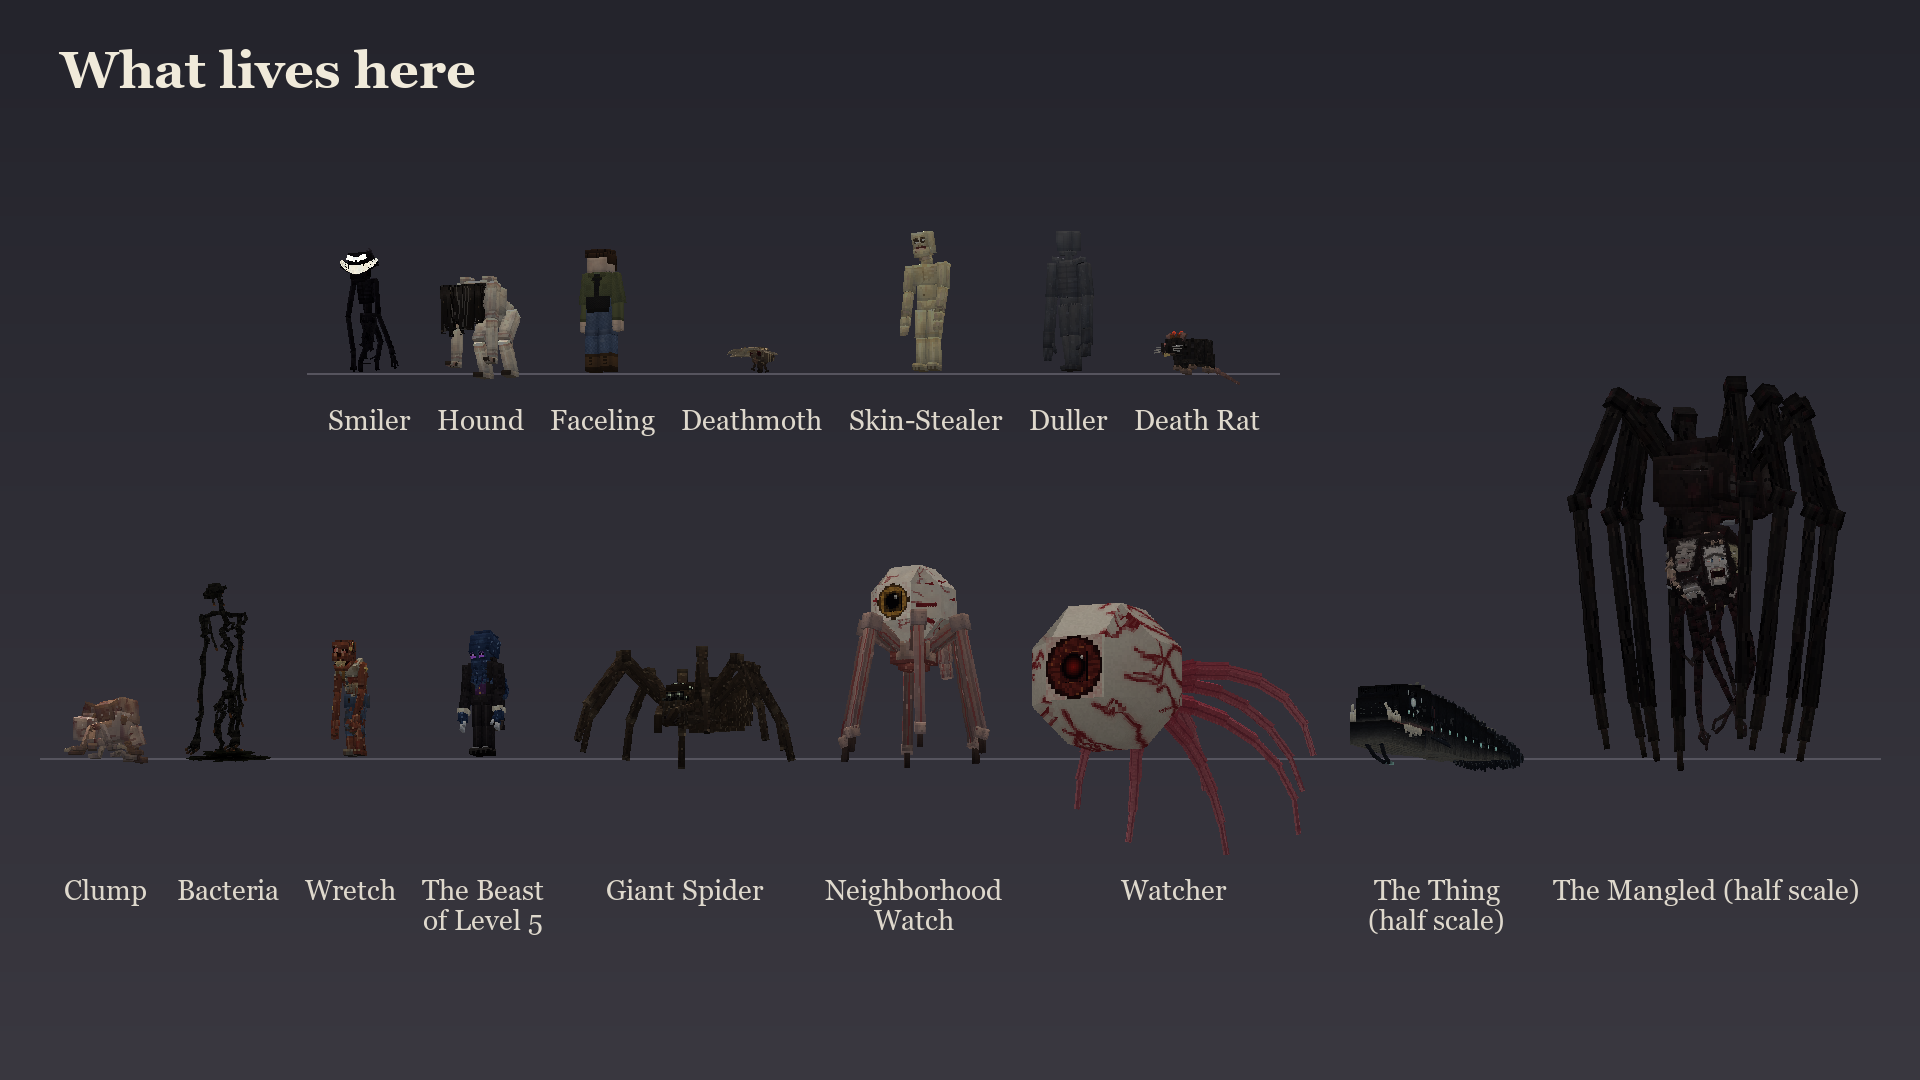
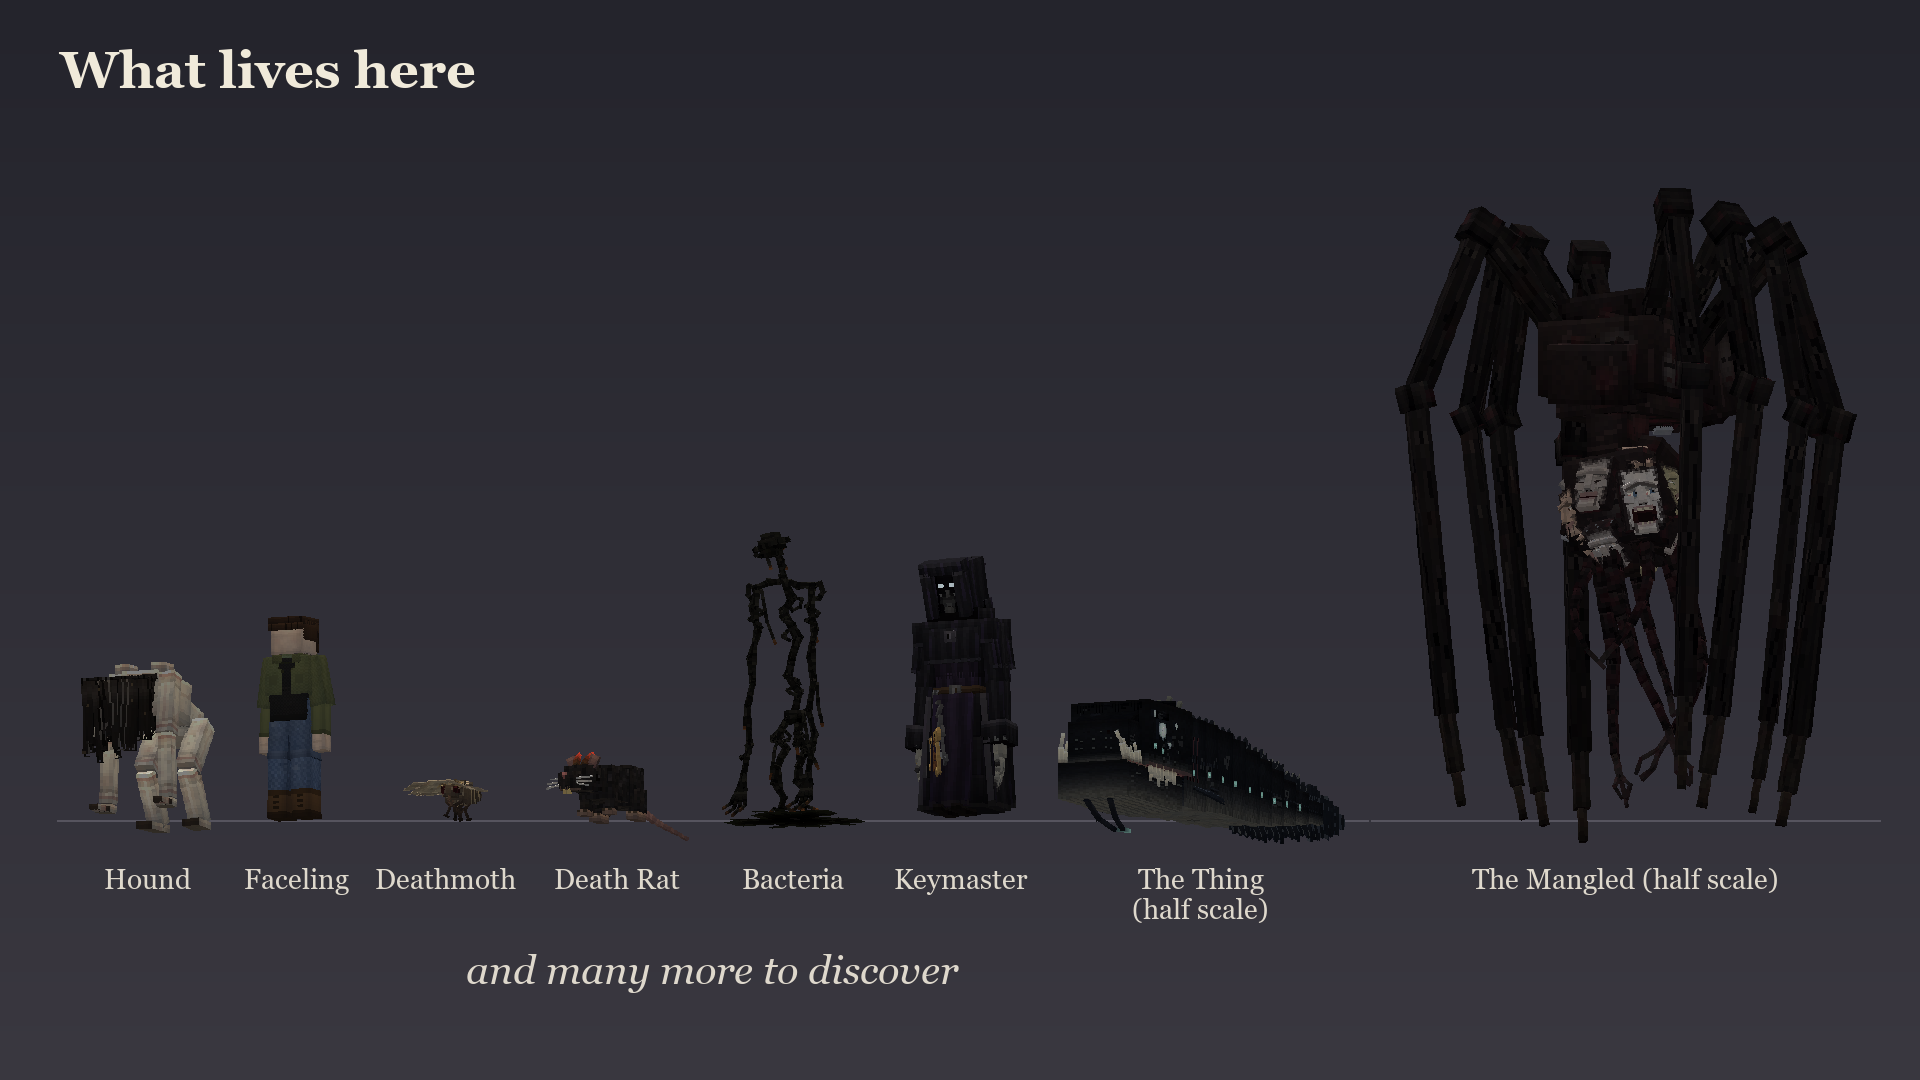
Mod page: the What Lives Here line-up shows eight (Hound, Faceling, Deathmoth, Death Rat, Bacteria, Keymaster, the Thing, the Mangled) "and many more to discover" (lineup.py few=1)

diff --git a/tools/lineup.py b/tools/lineup.py
@@ -1,10 +1,10 @@
 """Renders the creature lineup for the mod page ("What lives here"): every entity at its true size relative to the
 others (the two giants at half scale), facing the viewer, standing on one ground line, named underneath.
 
-    python tools/lineup.py out.png [yaw=65] [pitch=8] [rings=1]
+    python tools/lineup.py out.png [yaw=65] [pitch=8] [rings=1|few=1]
 
-`rings=1` draws only what lives in the rings (Levels 0 to 11), in two rows: the mod page's lineup, which keeps the far
-levels' creatures out of sight. A 1920x1080 picture in three rows, with the Mangled standing at the right beside them, scaled to fill it. `yaw` turns the models from straight on (90) so their depth shows. The renderer is the one in
+`rings=1` draws only what lives in the rings (Levels 0 to 11), in two rows. `few=1` draws eight of them in one row
+with "and many more to discover" under it: the mod page's lineup, which keeps most of what lives here out of sight. A 1920x1080 picture in three rows, with the Mangled standing at the right beside them, scaled to fill it. `yaw` turns the models from straight on (90) so their depth shows. The renderer is the one in
 entrender.py (the game's element transforms), drawing onto a transparent canvas.
 """
 import json
@@ -125,16 +125,24 @@ RINGS = ["Smiler", "Hound", "Faceling", "Deathmoth", "Skin-Stealer", "Duller", "
          "The Beast\nof Level 5", "Giant Spider", "Neighborhood\nWatch", "Watcher", "The Thing\n(half scale)",
          "The Mangled (half scale)"]
 RINGS_ROWS = [7, 8]
+# A taste (few=1): eight, in one row, and the rest left to be met
+FEW = ["Death Rat", "Deathmoth", "Hound", "Faceling", "Bacteria", "Keymaster", "The Thing\n(half scale)",
+       "The Mangled (half scale)"]
+FEW_ROWS = [7]
+FEW_CAPTION = "and many more to discover"
 # Drawn standing at the right, beside every row, so the rows need not be as tall as it
 SIDE = {"The Mangled (half scale)"}
 SIZE = (1920, 1080)
 RINGS_ONLY = False
+FEW_ONLY = False
 
 
 def render_all(ppb, yaw, pitch):
     figures = []
     for label, shape_name, tex_name, size, extra in ROSTER:
         if RINGS_ONLY and label not in RINGS:
+            continue
+        if FEW_ONLY and label not in FEW:
             continue
         shape = json.load(open(os.path.join(ASSETS, "shapes", "entity", shape_name + ".json"), encoding="utf-8-sig"))
         tex = Image.open(os.path.join(ASSETS, "textures", "entity", tex_name + ".png")).convert("RGBA")
@@ -176,13 +184,18 @@ def main():
     out = sys.argv[1]
     opts = dict(a.split("=", 1) for a in sys.argv[2:])
     yaw, pitch = float(opts.get("yaw", 65)), float(opts.get("pitch", 8))
-    global RINGS_ONLY, ROWS
+    global RINGS_ONLY, FEW_ONLY, ROWS
     RINGS_ONLY = opts.get("rings", "0") == "1"
+    FEW_ONLY = opts.get("few", "0") == "1"
     if RINGS_ONLY:
         ROWS = RINGS_ROWS
+    if FEW_ONLY:
+        ROWS = FEW_ROWS
     W, H = SIZE
     label_font, title_font = font(["georgia.ttf", "times.ttf"], 28), font(["georgiab.ttf", "timesbd.ttf"], 52)
     gap, margin, top, label_h, row_gap = 26, 60, 130, 58, 18
+    caption_font = font(["georgiai.ttf", "timesi.ttf", "georgia.ttf"], 40)
+    caption_h = 90 if FEW_ONLY else 0  # room under the rows for the caption
 
     # Measure at a reference scale, then render again at the largest scale that fits the frame (labels keep their
     # size, so shrink a little more until every row fits beside the side figure's column)
@@ -190,9 +203,9 @@ def main():
     figs, side = split(render_all(ref, yaw, pitch))
     rows = layout(figs, label_font, gap)
     fit_w = min((W - 2 * margin) / (w - gap * (len(r) - 1)) * 1.0 for r, w, _, _ in rows)
-    fit_h = (H - top - 30 - sum(label_h + LINE_H * (label_lines(r) - 1) for r, _, _, _ in rows) - row_gap * (len(rows) - 1)) / sum(a + b for _, _, a, b in rows)
+    fit_h = (H - top - 30 - caption_h - sum(label_h + LINE_H * (label_lines(r) - 1) for r, _, _, _ in rows) - row_gap * (len(rows) - 1)) / sum(a + b for _, _, a, b in rows)
     if side:
-        fit_h = min(fit_h, (H - top - 30 - label_h) / side[1].height)
+        fit_h = min(fit_h, (H - top - 30 - caption_h - label_h) / side[1].height)
     ppb = ref * min(fit_w, fit_h) * 0.97
     while True:
         figs, side = split(render_all(ppb, yaw, pitch))
@@ -213,8 +226,12 @@ def main():
 
     # Share the spare height out between the rows; the rows sit left of the side figure's column
     used = sum(a + b for _, _, a, b in rows) + sum(label_h + LINE_H * (label_lines(r) - 1) for r, _, _, _ in rows) + row_gap * (len(rows) - 1)
-    spare = max(0, H - top - 30 - used) / (len(rows) + 1)
+    if side:
+        used = max(used, side[1].height + label_h)  # (the side figure is the tallest thing: centre on it)
+    spare = max(0, H - top - 30 - caption_h - used) / (len(rows) + 1)
     y = top + spare
+    if side:
+        y += max(0, side[2] - rows[0][2])  # (the ground line goes under the side figure's full height, not the row's)
     base = 0
     for row, width, above, below in rows:
         base = int(y + above)
@@ -237,6 +254,10 @@ def main():
         d.line([(x - 20, base + 2), (x + slot + 20, base + 2)], fill=(86, 84, 94), width=2)
         sheet.alpha_composite(img, (int(x + (slot - img.width) / 2), int(base - ground)))
         d.text((x + (slot - lw) / 2, base + int(last_below) + 16), label, font=label_font, fill=(222, 216, 204))
+    if FEW_ONLY:
+        cw = caption_font.getbbox(FEW_CAPTION)[2]
+        # (Just under the last row's names: y is already past them, the row gap and the shared spare)
+        d.text((margin + (region - cw) / 2, y - spare - row_gap + 8), FEW_CAPTION, font=caption_font, fill=(222, 216, 204))
     sheet.convert("RGB").save(out)
     print(out, sheet.size, f"{ppb:.0f} px per block")
 

diff --git a/docs/DEVELOPING.md b/docs/DEVELOPING.md
@@ -262,7 +262,7 @@ Textures, 3D models, block definitions and sounds are generated by scripts:
 - `tools/texsheet.py <folder or glob>... --out sheet.png [--ref <vanilla texture>...] [--tile]`: a contact sheet of textures at 4x nearest-neighbour with their names, vanilla references in the first row, and with `--tile` each one as a 3x3 repeat to show seams. `--all --out <dir>` does every folder under `assets/backrooms/textures`, each with its vanilla counterparts.
 - `tools/check_zfight.py [filters]`: lists z-fighting candidates in the block models: faces of one model in the same plane, facing the same way and overlapping, and faces lying exactly on a neighbouring block's face (an element reaching out of its block). Faces buried inside another element, and undersides on the floor, are left out; what is left still needs judging (a top face against the ceiling never shows).
 - `tools/entrender.py shape.json texture.png out.png [anims=walk,idle] [frames=8] [views=side,34,front,back] [scale=70]`: renders an entity model in its animations the way the game composes them, a sheet of frames per animation, to check models and animations without starting the game.
-- `tools/lineup.py out.png [yaw=65] [pitch=8] [rings=1]`: the "What lives here" lineup: every creature at its true size (the two giants at half scale), facing the viewer, named underneath. Add a new creature to its `ROSTER`. `rings=1` draws only what lives in the rings (Levels 0 to 11; its `RINGS` list) in two rows: that is the mod page's picture (`docs/screenshots/42-what-lives-here.png`, `docs/moddb/img/42-what-lives-here.jpg`), which keeps the far levels' creatures off the page.
+- `tools/lineup.py out.png [yaw=65] [pitch=8] [rings=1|few=1]`: the "What lives here" lineup: every creature at its true size (the two giants at half scale), facing the viewer, named underneath. Add a new creature to its `ROSTER`. `rings=1` draws only what lives in the rings (Levels 0 to 11; its `RINGS` list) in two rows: that is the mod page's picture (`docs/screenshots/42-what-lives-here.png`, `docs/moddb/img/42-what-lives-here.jpg`), which keeps the far levels' creatures off the page.
 - `tools/gen_pool.py` and `tools/gen_motion.py`: Level 37's tile, slits, POOL doors, ladders, Epsom salt and red water; Level 94's turf, roads, backdrop, glass mountain, castle, water towers, fountains, doors, 1950s furniture, milk vans and Almond Milk. Both are run by gen_detail.py.
 - `tools/gen_level_sounds.py`: Level 37's drips, lapping, room tone and the Reservoir's chanting; Level 94's siren-pole tune (and its flat dusk version), laughter, "All glory to the King!" and the Robo-Men's wind-up.
 - `tools/gen_run.py`, `gen_fun.py`, `gen_end.py`, `gen_hub.py`, `gen_974.py`, `gen_3999.py`, `gen_188.py` (each with its own helper modules): the seven far places' textures, shapes, blocks, items, entities, sounds and names, in their own `<tag>/` folders; run them through `bash tools/locked.sh run python tools/gen_<tag>.py`.
